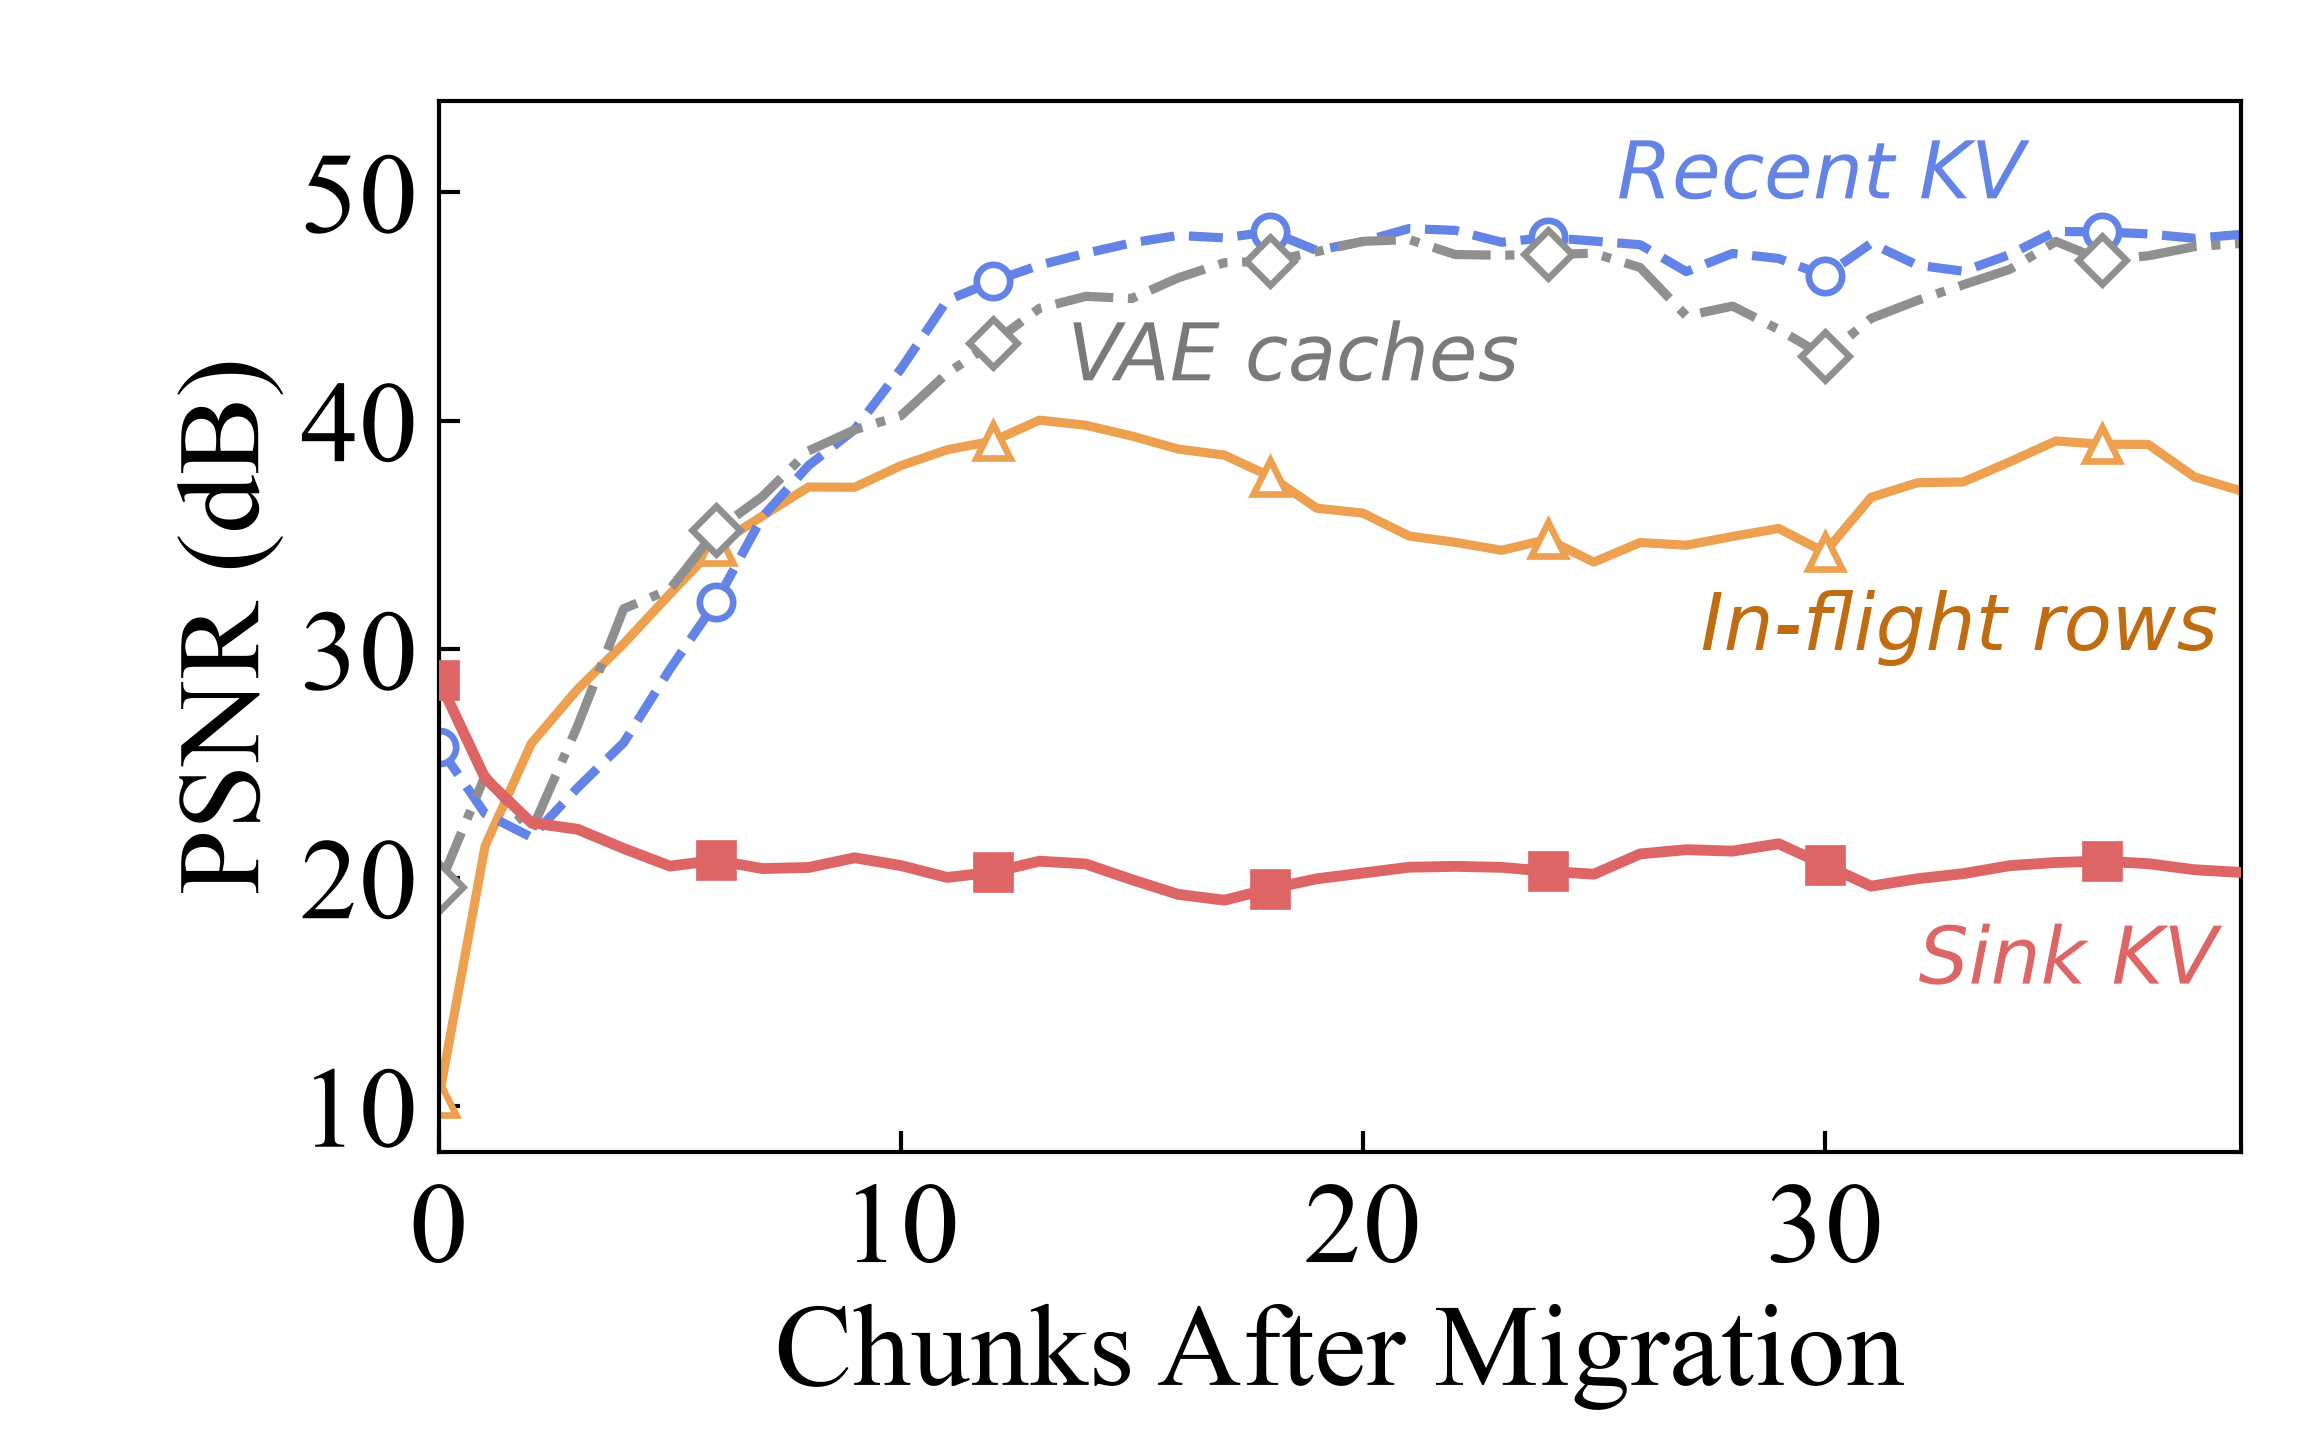
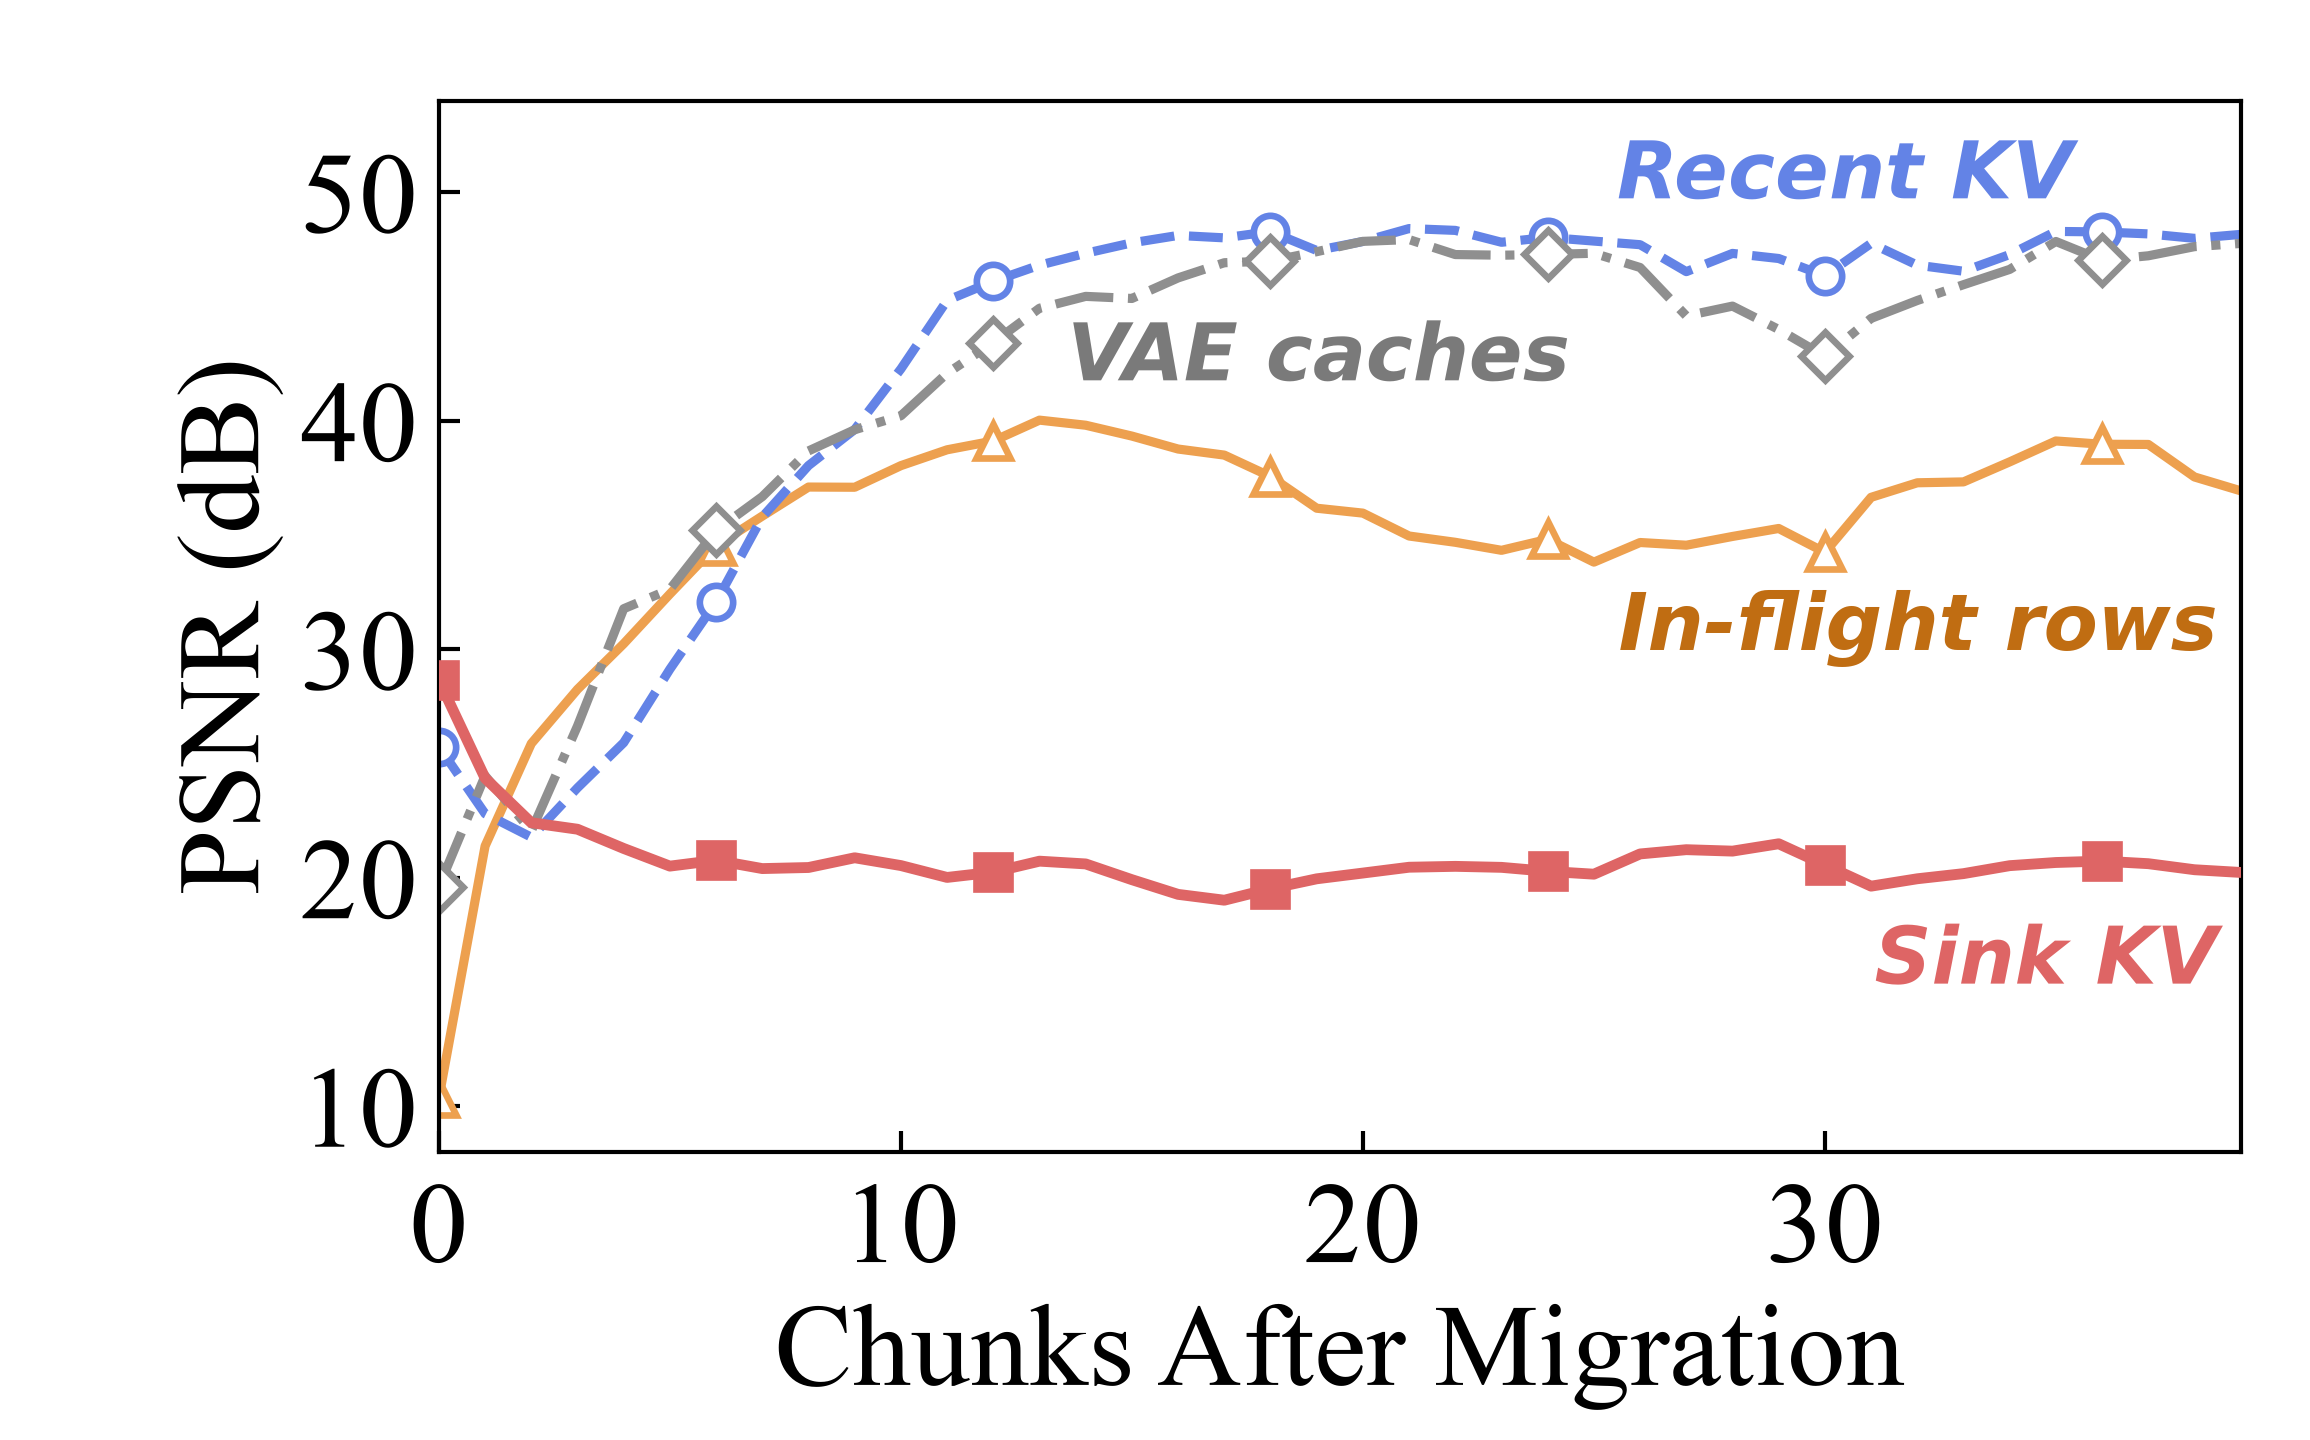
Fig. 2b: bold curve labels

diff --git a/tools/make_background_figures.py b/tools/make_background_figures.py
@@ -302,7 +302,7 @@ def fig2b(out: Path):
     direct = [("Recent KV", C_EPH, 25.5, 48.9, "bottom"), ("VAE caches", "#7a7a7a", 13.6, 44.4, "top"),
               ("In-flight rows", C_IMM_TEXT, 38.5, 32.6, "top"), ("Sink KV", C_DUR, 38.5, 18.0, "top")]
     for txt, col, xx, yy, va in direct:
-        _in_label(ax, xx, yy, txt, F2_ANNOT, ha="right" if xx > 30 else "left", va=va, color=col, zorder=4)
+        _in_label(ax, xx, yy, txt, F2_ANNOT, ha="right" if xx > 30 else "left", va=va, color=col, zorder=4, weight="bold")
     ax.set_xlim(0, 39); ax.set_xticks([0, 10, 20, 30])
     ax.set_ylim(8, 54); ax.set_yticks([10, 20, 30, 40, 50])
     _fig2a_axis(ax, "Chunks After Migration")
